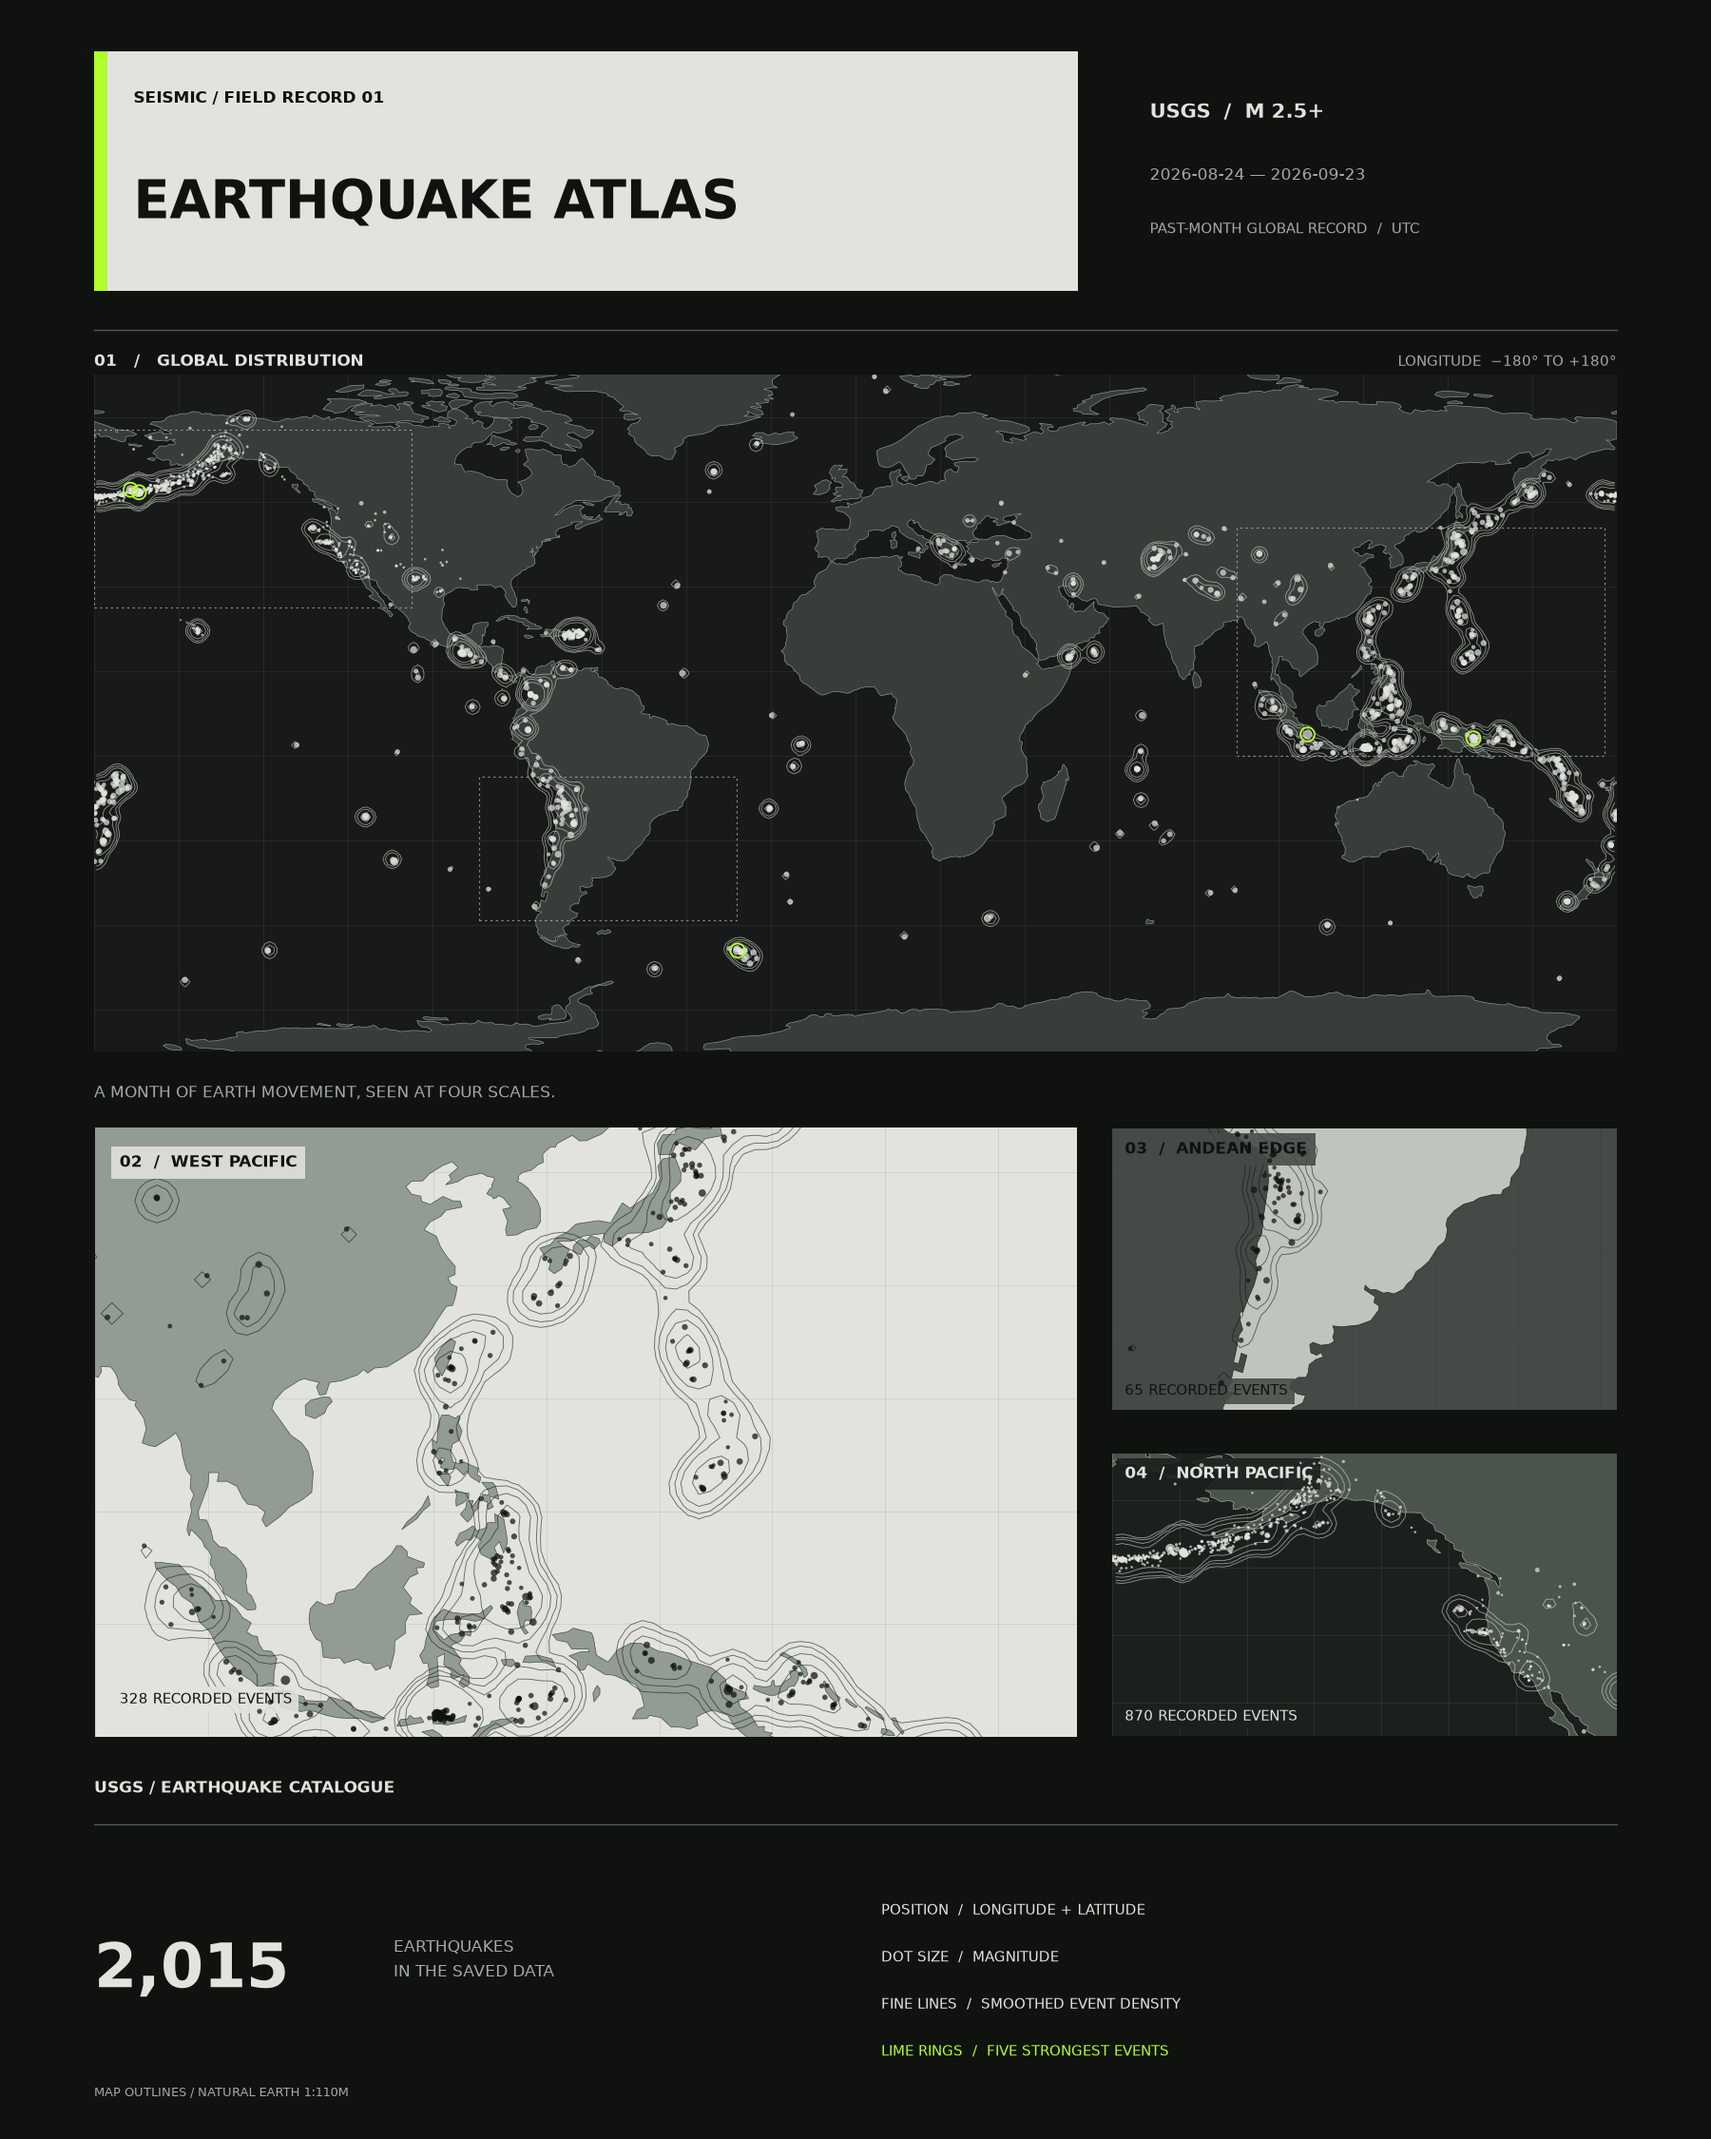
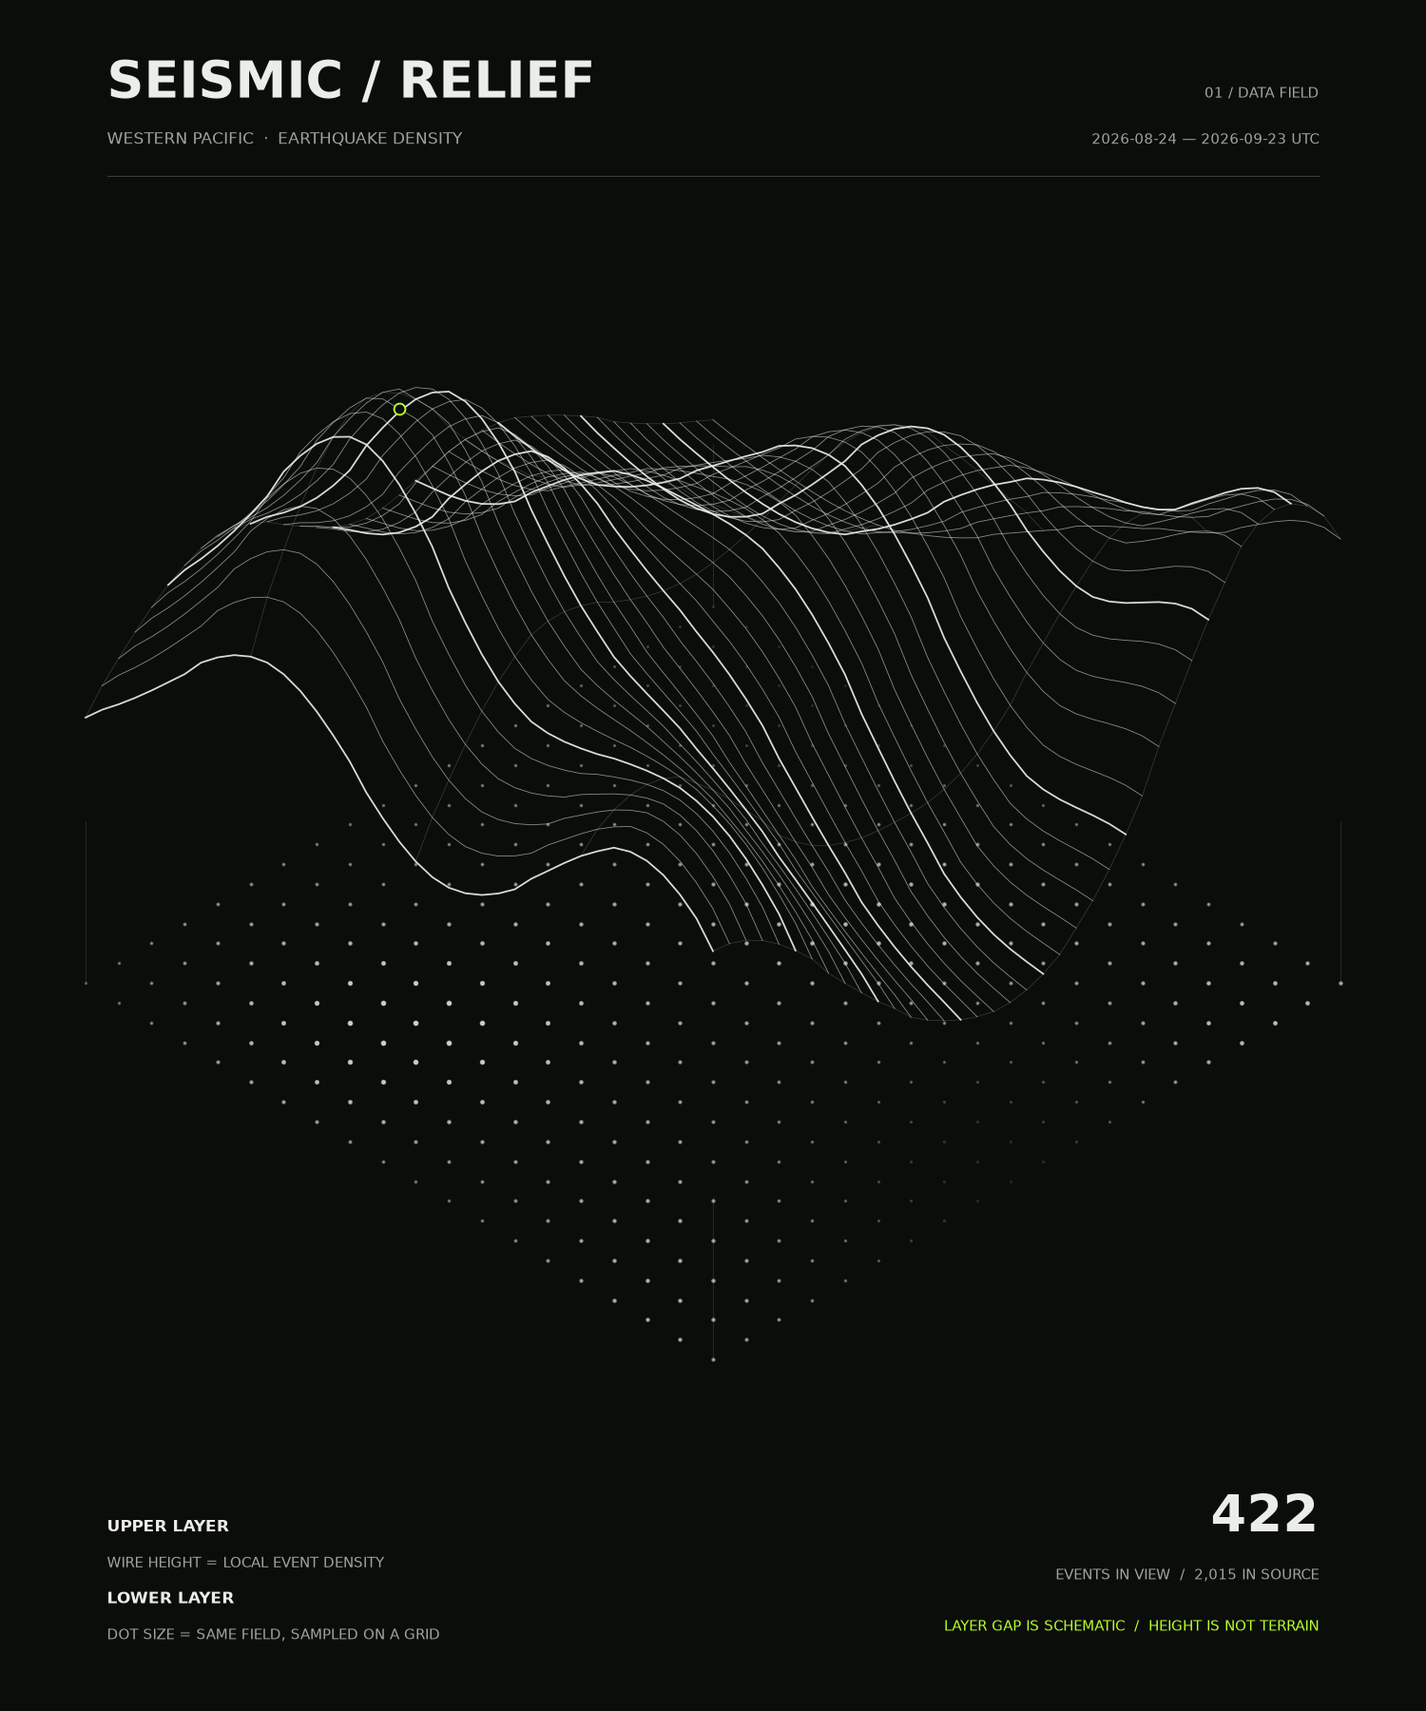
Develop layered seismic relief

diff --git a/relief.py b/relief.py
@@ -1,0 +1,196 @@
+# /// script
+# requires-python = ">=3.10"
+# dependencies = ["matplotlib", "numpy"]
+# ///
+
+"""Draw a two-layer seismic-density poster from the saved USGS data."""
+
+import datetime as dt
+import json
+from pathlib import Path
+
+import matplotlib.pyplot as plt
+import numpy as np
+
+HERE = Path(__file__).parent
+DATA = HERE / "data" / "usgs-earthquakes-2.5-month.geojson"
+OUTPUT = HERE / "out" / "earthquake-atlas.png"
+
+BACKGROUND = "#0b0d0b"
+WHITE = "#ebeee8"
+SECONDARY = "#9da69d"
+LIME = "#b9ff27"
+BOUNDS = (98, 178, -20, 60)
+
+
+def read_events(path):
+    """Return longitude, latitude, magnitude and UTC date for each event."""
+    raw = json.loads(path.read_text(encoding="utf-8"))
+    events = []
+    for feature in raw["features"]:
+        coordinates = feature["geometry"]["coordinates"]
+        magnitude = feature["properties"]["mag"]
+        if magnitude is None or not coordinates:
+            continue
+        date = dt.datetime.fromtimestamp(
+            feature["properties"]["time"] / 1000, dt.timezone.utc
+        ).date()
+        events.append((coordinates[0], coordinates[1], magnitude, date))
+    return events
+
+
+def gaussian_smooth(field, radius):
+    """Blur a count grid with a one-dimensional Gaussian in both directions."""
+    half = int(radius * 4)
+    positions = np.arange(-half, half + 1)
+    kernel = np.exp(-0.5 * (positions / radius) ** 2)
+    kernel /= kernel.sum()
+    field = np.apply_along_axis(
+        lambda row: np.convolve(row, kernel, mode="same"), 1, field
+    )
+    return np.apply_along_axis(
+        lambda column: np.convolve(column, kernel, mode="same"), 0, field
+    )
+
+
+def density_surface(events):
+    """Count events and smooth them over roughly nine geographic degrees."""
+    west, east, south, north = BOUNDS
+    longitudes = np.linspace(west - 20, east + 20, 240)
+    latitudes = np.linspace(south - 20, north + 20, 240)
+    counts = np.zeros((len(latitudes), len(longitudes)))
+    for longitude, latitude, _magnitude, _date in events:
+        if (longitudes[0] <= longitude <= longitudes[-1]
+                and latitudes[0] <= latitude <= latitudes[-1]):
+            column = int(np.searchsorted(longitudes, longitude).clip(
+                0, len(longitudes) - 1
+            ))
+            row = int(np.searchsorted(latitudes, latitude).clip(
+                0, len(latitudes) - 1
+            ))
+            counts[row, column] += 1
+    return longitudes, latitudes, gaussian_smooth(counts, radius=18)
+
+
+def project(longitude, latitude, height):
+    """Project longitude, latitude and density height onto the poster."""
+    west, east, south, north = BOUNDS
+    x = 2 * (np.asarray(longitude) - west) / (east - west) - 1
+    y = 2 * (np.asarray(latitude) - south) / (north - south) - 1
+    return 0.5 + 0.22 * (x + y), 0.52 + 0.11 * (y - x) + 0.27 * height
+
+
+def main():
+    events = read_events(DATA)
+    visible = [
+        event for event in events
+        if BOUNDS[0] <= event[0] <= BOUNDS[1]
+        and BOUNDS[2] <= event[1] <= BOUNDS[3]
+    ]
+    longitudes, latitudes, field = density_surface(events)
+
+    longitude_grid, latitude_grid = np.meshgrid(
+        np.linspace(BOUNDS[0], BOUNDS[1], 39),
+        np.linspace(BOUNDS[2], BOUNDS[3], 39),
+    )
+    column_indices = np.searchsorted(longitudes, longitude_grid).clip(
+        0, len(longitudes) - 1
+    )
+    row_indices = np.searchsorted(latitudes, latitude_grid).clip(
+        0, len(latitudes) - 1
+    )
+    sampled = field[row_indices, column_indices]
+    scale = float(np.quantile(sampled, 0.995))
+    height = np.sqrt(np.clip(sampled / scale, 0, 1))
+
+    figure = plt.figure(figsize=(10, 12), facecolor=BACKGROUND)
+    axes = figure.add_axes([0, 0, 1, 1], facecolor=BACKGROUND)
+    axes.set_xlim(0, 1)
+    axes.set_ylim(0, 1)
+    axes.set_axis_off()
+
+    # Lower layer: regular samples of the density field.
+    for row in range(0, 39, 2):
+        for column in range(0, 39, 2):
+            strength = float(height[row, column])
+            x, y = project(
+                longitude_grid[row, column], latitude_grid[row, column], -0.35
+            )
+            axes.plot(
+                x, y, ".", color=WHITE,
+                markersize=0.5 + 3.0 * strength,
+                alpha=0.17 + 0.58 * strength, zorder=1,
+            )
+
+    # Corner lines show that the dot matrix and wire surface share one grid.
+    for longitude, latitude in [(98, -20), (178, -20), (178, 60), (98, 60)]:
+        lower_x, lower_y = project(longitude, latitude, -0.35)
+        upper_x, upper_y = project(longitude, latitude, 0)
+        axes.plot(
+            [lower_x, upper_x], [lower_y, upper_y],
+            color=SECONDARY, linewidth=0.35, alpha=0.26, zorder=2,
+        )
+
+    # Upper layer: density becomes height. Thicker lines provide visual rhythm.
+    for row in range(39):
+        x, y = project(longitude_grid[row], latitude_grid[row], height[row])
+        major = row % 5 == 0
+        axes.plot(
+            x, y, color=WHITE,
+            linewidth=0.85 if major else 0.40,
+            alpha=0.92 if major else 0.57, zorder=3,
+        )
+    for column in (0, 10, 20, 30, 38):
+        x, y = project(
+            longitude_grid[:, column], latitude_grid[:, column], height[:, column]
+        )
+        axes.plot(x, y, color=WHITE, linewidth=0.33, alpha=0.22, zorder=3)
+
+    peak_row, peak_column = np.unravel_index(np.argmax(sampled), sampled.shape)
+    peak_x, peak_y = project(
+        longitude_grid[peak_row, peak_column],
+        latitude_grid[peak_row, peak_column],
+        height[peak_row, peak_column],
+    )
+    axes.scatter(
+        [peak_x], [peak_y], s=32, facecolors=BACKGROUND,
+        edgecolors=LIME, linewidths=0.9, zorder=5,
+    )
+
+    first = min(event[3] for event in events)
+    last = max(event[3] for event in events)
+    axes.text(0.075, 0.943, "SEISMIC / RELIEF", color=WHITE,
+              fontsize=26, weight="bold")
+    axes.text(0.075, 0.916, "WESTERN PACIFIC  ·  EARTHQUAKE DENSITY",
+              color=SECONDARY, fontsize=8)
+    axes.text(0.925, 0.943, "01 / DATA FIELD", color=SECONDARY,
+              fontsize=7, ha="right")
+    axes.text(0.925, 0.916, f"{first} — {last} UTC", color=SECONDARY,
+              fontsize=7, ha="right")
+    axes.plot([0.075, 0.925], [0.897, 0.897], color=SECONDARY,
+              linewidth=0.4, alpha=0.4)
+
+    axes.text(0.075, 0.105, "UPPER LAYER", color=WHITE,
+              fontsize=8, weight="bold")
+    axes.text(0.075, 0.084, "WIRE HEIGHT = LOCAL EVENT DENSITY",
+              color=SECONDARY, fontsize=7)
+    axes.text(0.075, 0.063, "LOWER LAYER", color=WHITE,
+              fontsize=8, weight="bold")
+    axes.text(0.075, 0.042, "DOT SIZE = SAME FIELD, SAMPLED ON A GRID",
+              color=SECONDARY, fontsize=7)
+    axes.text(0.925, 0.105, f"{len(visible):03}", color=WHITE,
+              fontsize=26, weight="bold", ha="right")
+    axes.text(0.925, 0.077, f"EVENTS IN VIEW  /  {len(events):,} IN SOURCE",
+              color=SECONDARY, fontsize=7, ha="right")
+    axes.text(0.925, 0.047,
+              "LAYER GAP IS SCHEMATIC  /  HEIGHT IS NOT TERRAIN",
+              color=LIME, fontsize=7, ha="right")
+
+    OUTPUT.parent.mkdir(exist_ok=True)
+    figure.savefig(OUTPUT, dpi=150, facecolor=BACKGROUND)
+    print(f"saved {OUTPUT.relative_to(HERE)} from {len(events)} earthquakes")
+    plt.show()
+
+
+if __name__ == "__main__":
+    main()

diff --git a/plot.py b/plot.py
@@ -216,4 +216,7 @@ def main():
 
 
 if __name__ == "__main__":
-    main()
+    # The earlier collage remains above as a record of a rejected design.
+    # The final command now renders the two-layer density relief.
+    from relief import main as draw_relief
+    draw_relief()

diff --git a/README.md b/README.md
@@ -1,34 +1,39 @@
-# The phenomenon
+# Seismic Relief
 
-<!-- This is the SD5913 assignment 2 template. Everything in this file is yours to
-replace, and the check counts words: comments like this one are not words, so
-delete each one as you write. Start with the heading: name the phenomenon.
-
-Then, in this order, at least 150 words in total.
-
-New to folders, paths, or the files here whose names start with a dot? Read
-https://github.com/sd5913/pfad/blob/2026/reference/files.md first. Ten minutes. -->
-
-![what the picture is](out/plot.png)
+![A two-layer wireframe view of earthquake density in the western Pacific](out/earthquake-atlas.png)
 
 ## The phenomenon
 
-<!-- What goes up and down, and why you looked at it. -->
+Earthquakes happen when accumulated stress is released along faults in the Earth's
+crust. Their locations are not evenly distributed: many occur in long belts near
+tectonic plate boundaries. I chose earthquakes because I wanted to see whether
+their spatial pattern could become a field of lines rather than a conventional map
+covered with markers. The western Pacific was especially useful because a large
+number of events form a strong, curved structure across the region.
 
 ## The source
 
-<!-- A link to the page or endpoint the file came from, and one line on what is in
-the file: how many rows, what a row means, what the units are. -->
+The raw file comes from the [USGS past-month feed for earthquakes of magnitude 2.5
+or greater](https://earthquake.usgs.gov/earthquakes/feed/v1.0/summary/2.5_month.geojson).
+It contains 2,015 GeoJSON features. Each feature represents one recorded earthquake
+and includes longitude and latitude in degrees, depth in kilometres, magnitude, and
+time in milliseconds since the Unix epoch. The downloaded reply is stored unchanged
+in `data/usgs-earthquakes-2.5-month.geojson`, so the drawing runs without internet
+access.
 
 ## What the picture shows
 
-<!-- Two or three sentences. Including what it hides: every transformation throws
-something away, and naming what yours threw away is the easiest way to sound like
-you know what you did. -->
+The picture focuses on 422 events within the western Pacific crop. Earthquakes are
+counted on a geographic grid and smoothed into a density field. In the upper layer,
+local density becomes the height of the white wire surface. The lower layer samples
+the same field as a regular dot matrix, with larger dots in denser areas. The gap
+between layers is only a visual device, and the raised surface is not real terrain.
+The transformation hides exact coastlines, individual event times, depths and most
+magnitudes. It also removes earthquakes outside the selected region and softens
+small local differences through smoothing.
 
 ## Run it
 
 ```
-uv run fetch.py
 uv run plot.py
 ```

diff --git a/PROCESS.md b/PROCESS.md
@@ -1,15 +1,27 @@
 # Process
 
-<!-- Same as assignment 1, same honesty. Which tools you used and for what; one
-thing you kept and why it was good; one thing you rejected and why it was wrong.
-"I did not use any" is fine if it is true.
-
-If a model wrote most of plot.py, which is likely and allowed, the interesting part
-is what you had to correct: did it invent a column name, use pandas where a list
-would do, silently drop the rows it could not parse? -->
-
 ## Tools
+
+I used ChatGPT for technical guidance, English translation, and most of the plotting
+code. I chose the subject, supplied visual references, reviewed each generated
+image, and directed the changes. I also used the USGS GeoJSON feed as the data
+source and Matplotlib with NumPy to turn the saved data into the final picture.
 
 ## Kept
 
+I kept the idea of using earthquake density as the height of a wire surface and
+showing the same density again as a lower dot layer. This version gives the lines a
+clear role: they are the main visual form, while their height is still calculated
+from real event counts. I also kept a small amount of fluorescent green because it
+creates one focal point without competing with the white wire structure.
+
 ## Rejected
+
+I rejected two earlier map-collage versions. The first arranged a global map, three
+equal regional panels and a bar chart. Its parts had almost equal visual weight, so
+the composition felt flat and busy. The second added coastlines and differently
+sized map panels, but it still looked like several charts placed on one poster. I
+also rejected an early 3D test with a complete crossed wire grid and raw epicentre
+points underneath. Too many intersecting lines and dots formed a tangled mass. The
+final version reduces the cross-lines and uses a regular sampled dot field, which
+makes the two layers easier to read.
